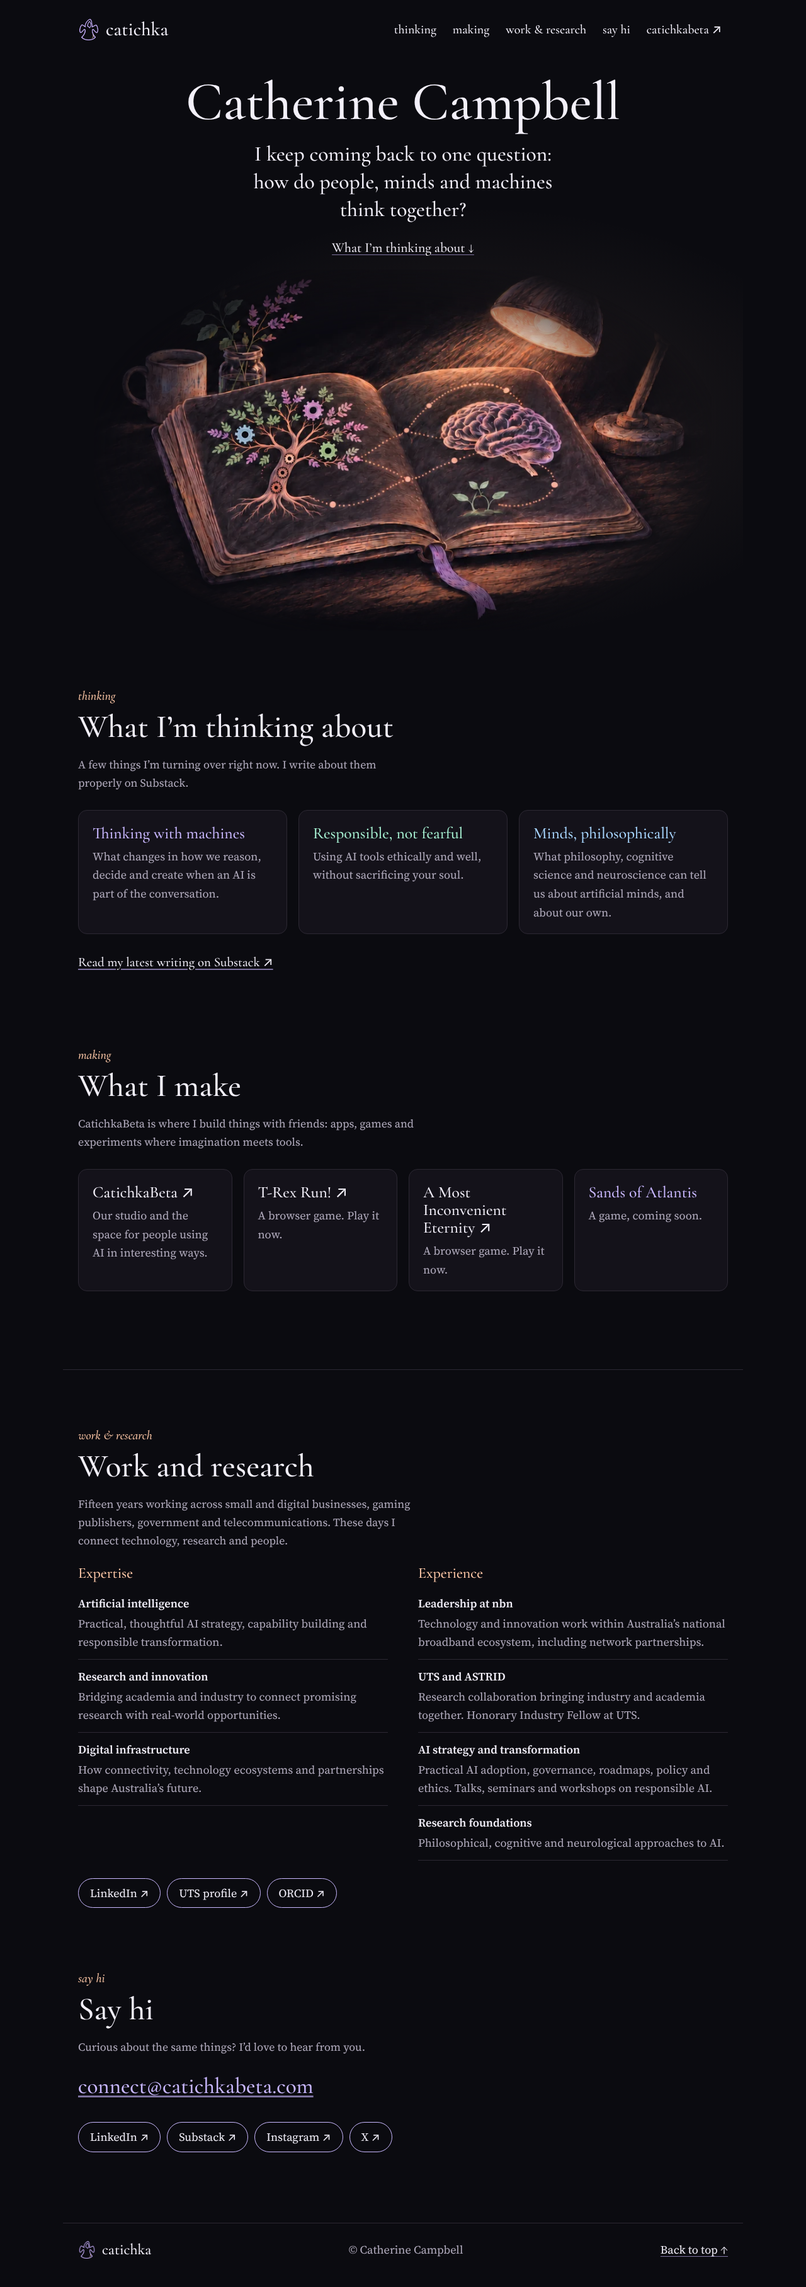
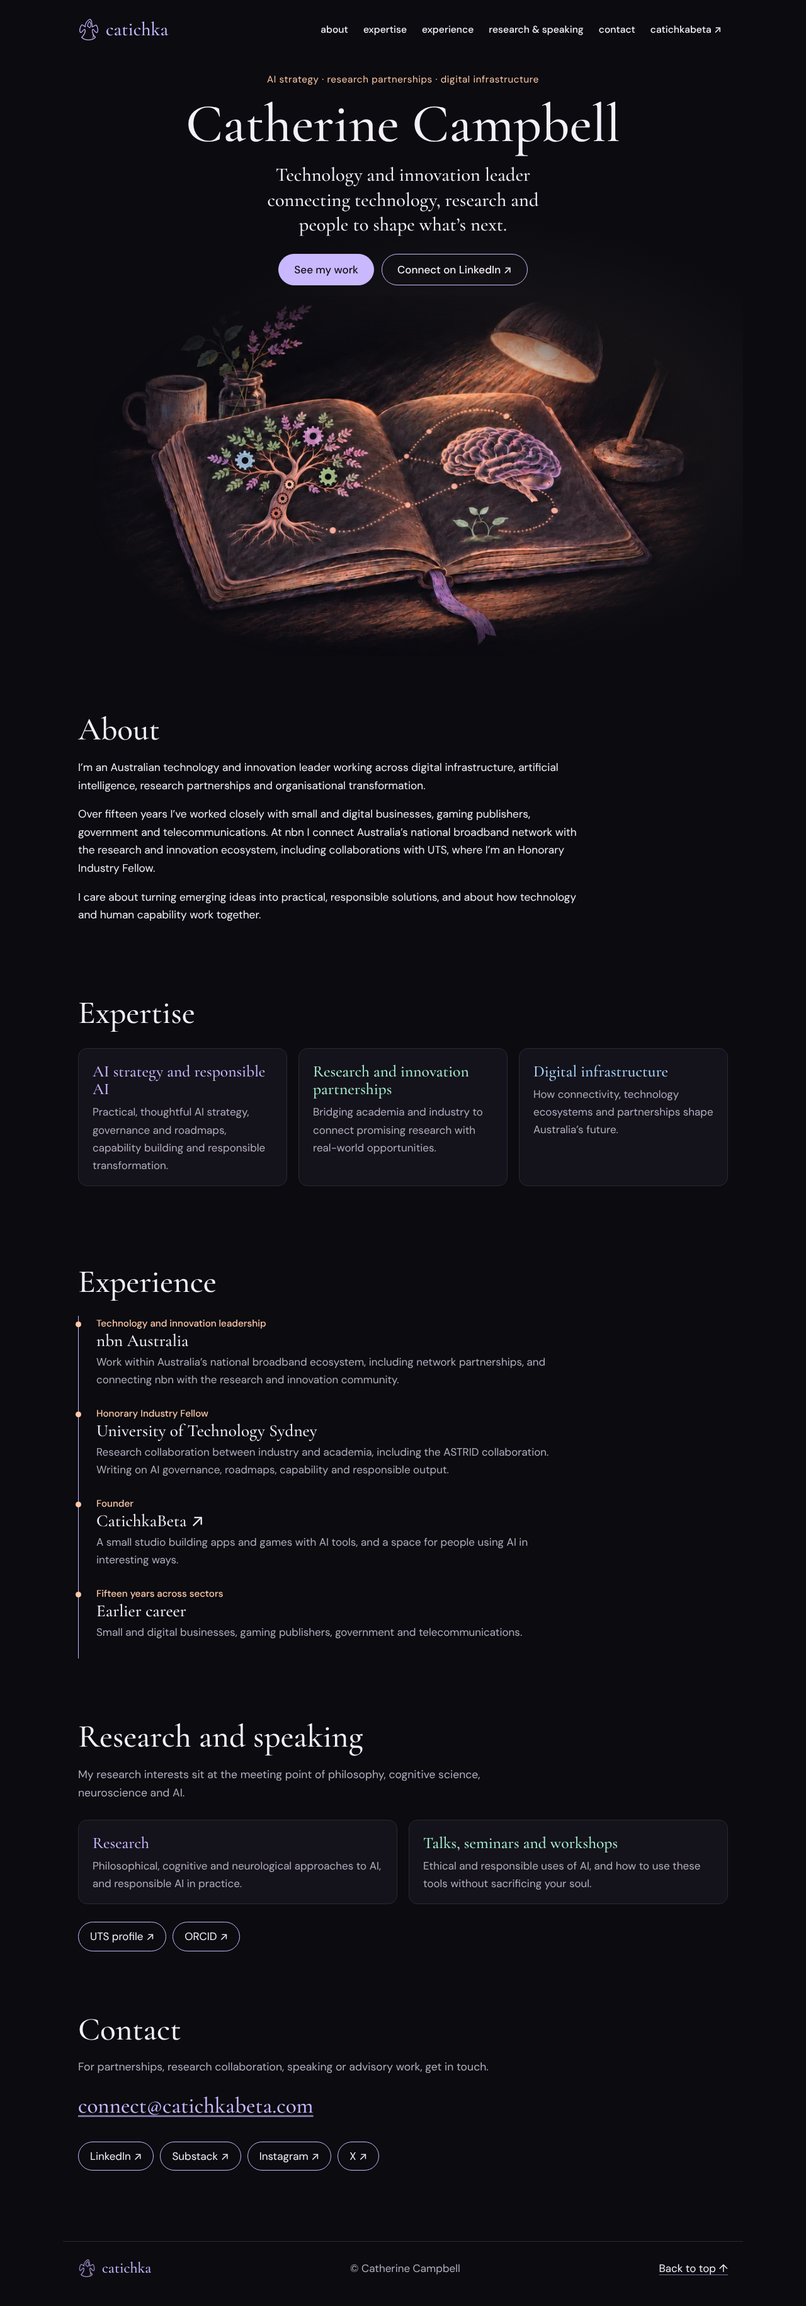
Refocus the site on Catherine's professional profile
Catherine wants a professional showcase, not a blog. Sections are now
about, expertise, experience (timeline), research and speaking, and
contact. Uses the approved fonts (Cormorant Garamond and DM Sans), adds
the approved wordmark, and updates the brief for ChatGPT.

Claude-Session: https://claude.ai/code/session_01EstHzd3ZrVaBXQQCWkzqig

diff --git a/src/site.ts b/src/site.ts
@@ -4,70 +4,70 @@
 export const site = {
   name: 'Catherine Campbell',
   short: 'catichka',
-  description: 'Catherine Campbell: how people, minds and machines think together. AI strategy, research and the things I make.',
+  description: 'Catherine Campbell: technology and innovation leader in AI strategy, research partnerships and digital infrastructure.',
 };
 
-// Nav order and labels from the approved hero (docs/art/batch-01/hero-style-approved.png).
+// Nav labels and order. Catherine, 10 Nov 2026: this is a professional site, not a blog.
 export const nav = [
-  { href: '/#thinking', label: 'thinking' },
-  { href: '/#making', label: 'making' },
-  { href: '/#work', label: 'work & research' },
-  { href: '/#hi', label: 'say hi' },
+  { href: '/#about', label: 'about' },
+  { href: '/#expertise', label: 'expertise' },
+  { href: '/#experience', label: 'experience' },
+  { href: '/#research', label: 'research & speaking' },
+  { href: '/#contact', label: 'contact' },
   { href: 'https://catichkabeta.com', label: 'catichkabeta', external: true },
 ];
 
+const linkedin = 'https://www.linkedin.com/in/catherinecampbell-/';
+
 export const hero = {
+  kicker: 'AI strategy · research partnerships · digital infrastructure',
   name: 'Catherine Campbell',
-  line: 'I keep coming back to one question: how do people, minds and machines think together?',
-  cta: { href: '#thinking', label: 'What I’m thinking about ↓' },
-};
-
-// Placeholder ideas: Cat to rewrite in her own words.
-export const thinking = {
-  intro: 'A few things I’m turning over right now. I write about them properly on Substack.',
-  ideas: [
-    { title: 'Thinking with machines', body: 'What changes in how we reason, decide and create when an AI is part of the conversation.' },
-    { title: 'Responsible, not fearful', body: 'Using AI tools ethically and well, without sacrificing your soul.' },
-    { title: 'Minds, philosophically', body: 'What philosophy, cognitive science and neuroscience can tell us about artificial minds, and about our own.' },
-  ],
-  substack: 'https://substack.com/@ca7ichka',
-};
-
-export const making = {
-  intro: 'CatichkaBeta is where I build things with friends: apps, games and experiments where imagination meets tools.',
-  projects: [
-    { title: 'CatichkaBeta', body: 'Our studio and the space for people using AI in interesting ways.', href: 'https://catichkabeta.com' },
-    { title: 'T-Rex Run!', body: 'A browser game. Play it now.', href: 'https://trexgame.catichkabeta.com' },
-    { title: 'A Most Inconvenient Eternity', body: 'A browser game. Play it now.', href: 'https://eternity.catichkabeta.com' },
-    { title: 'Sands of Atlantis', body: 'A game, coming soon.', href: null },
+  line: 'Technology and innovation leader connecting technology, research and people to shape what’s next.',
+  actions: [
+    { href: '#experience', label: 'See my work' },
+    { href: linkedin, label: 'Connect on LinkedIn ↗', ghost: true },
   ],
 };
 
-export const work = {
-  intro: 'Fifteen years working across small and digital businesses, gaming publishers, government and telecommunications. These days I connect technology, research and people.',
-  expertise: [
-    { title: 'Artificial intelligence', body: 'Practical, thoughtful AI strategy, capability building and responsible transformation.' },
-    { title: 'Research and innovation', body: 'Bridging academia and industry to connect promising research with real-world opportunities.' },
-    { title: 'Digital infrastructure', body: 'How connectivity, technology ecosystems and partnerships shape Australia’s future.' },
+export const about = {
+  paragraphs: [
+    'I’m an Australian technology and innovation leader working across digital infrastructure, artificial intelligence, research partnerships and organisational transformation.',
+    'Over fifteen years I’ve worked closely with small and digital businesses, gaming publishers, government and telecommunications. At nbn I connect Australia’s national broadband network with the research and innovation ecosystem, including collaborations with UTS, where I’m an Honorary Industry Fellow.',
+    'I care about turning emerging ideas into practical, responsible solutions, and about how technology and human capability work together.',
   ],
-  experience: [
-    { title: 'Leadership at nbn', body: 'Technology and innovation work within Australia’s national broadband ecosystem, including network partnerships.' },
-    { title: 'UTS and ASTRID', body: 'Research collaboration bringing industry and academia together. Honorary Industry Fellow at UTS.' },
-    { title: 'AI strategy and transformation', body: 'Practical AI adoption, governance, roadmaps, policy and ethics. Talks, seminars and workshops on responsible AI.' },
-    { title: 'Research foundations', body: 'Philosophical, cognitive and neurological approaches to AI.' },
+};
+
+export const expertise = [
+  { title: 'AI strategy and responsible AI', body: 'Practical, thoughtful AI strategy, governance and roadmaps, capability building and responsible transformation.' },
+  { title: 'Research and innovation partnerships', body: 'Bridging academia and industry to connect promising research with real-world opportunities.' },
+  { title: 'Digital infrastructure', body: 'How connectivity, technology ecosystems and partnerships shape Australia’s future.' },
+];
+
+// Draft: dates and job titles to come from Catherine's LinkedIn.
+export const experience = [
+  { org: 'nbn Australia', role: 'Technology and innovation leadership', body: 'Work within Australia’s national broadband ecosystem, including network partnerships, and connecting nbn with the research and innovation community.' },
+  { org: 'University of Technology Sydney', role: 'Honorary Industry Fellow', body: 'Research collaboration between industry and academia, including the ASTRID collaboration. Writing on AI governance, roadmaps, capability and responsible output.' },
+  { org: 'CatichkaBeta', role: 'Founder', body: 'A small studio building apps and games with AI tools, and a space for people using AI in interesting ways.', href: 'https://catichkabeta.com' },
+  { org: 'Earlier career', role: 'Fifteen years across sectors', body: 'Small and digital businesses, gaming publishers, government and telecommunications.' },
+];
+
+export const research = {
+  intro: 'My research interests sit at the meeting point of philosophy, cognitive science, neuroscience and AI.',
+  items: [
+    { title: 'Research', body: 'Philosophical, cognitive and neurological approaches to AI, and responsible AI in practice.' },
+    { title: 'Talks, seminars and workshops', body: 'Ethical and responsible uses of AI, and how to use these tools without sacrificing your soul.' },
   ],
-  profiles: [
-    { label: 'LinkedIn', href: 'https://www.linkedin.com/in/catherinecampbell-/' },
+  links: [
     { label: 'UTS profile', href: 'https://profiles.uts.edu.au/Catherine.Campbell/about' },
     { label: 'ORCID', href: 'https://orcid.org/0009-0009-6215-3743' },
   ],
 };
 
-export const hi = {
-  line: 'Curious about the same things? I’d love to hear from you.',
+export const contact = {
+  line: 'For partnerships, research collaboration, speaking or advisory work, get in touch.',
   email: 'connect@catichkabeta.com',
-  socials: [
-    { label: 'LinkedIn', href: 'https://www.linkedin.com/in/catherinecampbell-/' },
+  links: [
+    { label: 'LinkedIn', href: linkedin },
     { label: 'Substack', href: 'https://substack.com/@ca7ichka' },
     { label: 'Instagram', href: 'https://www.instagram.com/catichkasphilosophyforlife/' },
     { label: 'X', href: 'https://x.com/catichka' },
@@ -76,6 +76,7 @@ export const hi = {
 
 export const art = {
   mark: '/art/mark.png', // approved druid mark (batch 1), edges cleaned for web
+  portrait: null as string | null, // Catherine's photo, framed per ChatGPT's portrait treatment (batch 2)
   // Placeholder: cropped from the approved hero reference until ChatGPT's text-free hero (batch 2) arrives.
   hero: '/art/hero-placeholder.webp',
   heroAlt: 'An open notebook under a warm desk lamp. One page shows a tree with pastel cogs among its leaves, the other a brain, joined by dotted lines of thought.',

diff --git a/src/styles/global.css b/src/styles/global.css
@@ -12,16 +12,16 @@
   --pink: #ffb8d8;
   --lamp: rgb(255 201 168 / 0.10);
   --max: 1080px;
-  /* Placeholder fonts until the pairing is approved. */
+  /* Approved pairing (batch 1). */
   --display: 'Cormorant Garamond', Georgia, serif;
-  --body: 'Source Serif 4', Georgia, serif;
+  --body: 'DM Sans', system-ui, sans-serif;
   color-scheme: dark;
 }
 
 * { box-sizing: border-box; }
 html { -webkit-text-size-adjust: 100%; scroll-behavior: smooth; }
 @media (prefers-reduced-motion: reduce) { html { scroll-behavior: auto; } }
-body { margin: 0; background: var(--bg); color: var(--text); font: 400 18px/1.65 var(--body); }
+body { margin: 0; background: var(--bg); color: var(--text); font: 400 17px/1.65 var(--body); }
 img { max-width: 100%; height: auto; display: block; }
 a { color: var(--text); text-underline-offset: 4px; text-decoration-color: rgb(201 184 255 / 0.6); }
 a:hover { color: var(--peach); text-decoration-color: var(--peach); }
@@ -34,9 +34,9 @@ h1, h2, h3 { font-family: var(--display); font-weight: 500; line-height: 1.1; ma
 
 /* Header */
 .site-bar { display: flex; align-items: center; justify-content: space-between; gap: 8px 24px; flex-wrap: wrap; padding-top: 22px; padding-bottom: 10px; }
-.brand { display: inline-flex; align-items: center; gap: 10px; font-family: var(--display); font-size: 1.9rem; text-decoration: none; color: var(--text); }
+.brand { display: inline-flex; align-items: center; gap: 10px; font-family: var(--display); font-weight: 500; color: var(--lavender) !important; font-size: 1.9rem; text-decoration: none; color: var(--text); }
 .brand:hover { color: var(--text); }
-.nav { display: flex; flex-wrap: wrap; gap: 2px 6px; font-family: var(--display); font-size: 1.25rem; }
+.nav { display: flex; flex-wrap: wrap; gap: 2px 4px; font-weight: 500; font-size: 0.98rem; }
 .nav a { text-decoration: none; padding: 6px 10px; }
 .nav a:hover { color: var(--peach); }
 
@@ -44,8 +44,13 @@ h1, h2, h3 { font-family: var(--display); font-weight: 500; line-height: 1.1; ma
 .hero { text-align: center; padding-top: 32px; position: relative; }
 .hero::before { content: ''; position: absolute; inset: 20% 0 0; background: radial-gradient(ellipse at 62% 55%, var(--lamp), transparent 60%); pointer-events: none; }
 .hero h1 { font-size: clamp(2.8rem, 8vw, 5.4rem); font-weight: 500; }
-.hero-line { font-family: var(--display); font-size: clamp(1.4rem, 3.2vw, 2.1rem); line-height: 1.3; max-width: 30ch; margin: 14px auto 22px; }
-.hero-cta { font-family: var(--display); font-size: 1.35rem; text-decoration-thickness: 1px; }
+.hero .kicker { font-family: var(--body); font-style: normal; font-size: 0.95rem; letter-spacing: 0.04em; color: var(--peach); margin-bottom: 10px; }
+.hero-line { font-family: var(--display); font-size: clamp(1.35rem, 3vw, 1.9rem); line-height: 1.3; max-width: 34ch; margin: 14px auto 26px; }
+.actions { display: flex; gap: 12px; justify-content: center; flex-wrap: wrap; }
+.btn { display: inline-flex; align-items: center; min-height: 48px; padding: 10px 24px; border-radius: 999px; background: var(--lavender); color: var(--bg); font-weight: 500; text-decoration: none; border: 1px solid var(--lavender); }
+.btn:hover { color: var(--bg); background: var(--peach); border-color: var(--peach); }
+.btn.ghost { background: transparent; color: var(--text); }
+.btn.ghost:hover { color: var(--peach); background: transparent; }
 .hero-art { margin: 16px auto 0; width: min(100%, 980px); -webkit-mask-image: radial-gradient(ellipse 52% 54% at 50% 50%, #000 62%, transparent 100%); mask-image: radial-gradient(ellipse 52% 54% at 50% 50%, #000 62%, transparent 100%); }
 
 /* Sections */
@@ -61,22 +66,28 @@ h1, h2, h3 { font-family: var(--display); font-weight: 500; line-height: 1.1; ma
 .cards .card:nth-child(3n+1) h3 { color: var(--lavender); }
 .cards .card:nth-child(3n+2) h3 { color: var(--mint); }
 .cards .card:nth-child(3n+3) h3 { color: var(--blue); }
-.link { font-family: var(--display); font-size: 1.3rem; }
 
-/* Work and research: quieter, scannable */
-.work { border-top: 1px solid var(--border); margin-top: 88px; }
-.cols { display: grid; gap: 12px 48px; grid-template-columns: repeat(auto-fit, minmax(280px, 1fr)); margin-top: 24px; }
-.col-title { font-size: 1.5rem; color: var(--peach); margin-bottom: 8px; }
-.list { margin: 0; }
-.list > div { padding: 12px 0; border-bottom: 1px solid var(--border); }
-.list dt { font-weight: 600; }
-.list dd { margin: 2px 0 0; color: var(--muted); }
+/* About */
+.about-body { max-width: 68ch; margin-top: 18px; font-size: 1.08rem; }
+.about-body.has-portrait { max-width: none; display: grid; gap: 32px; grid-template-columns: minmax(180px, 280px) 1fr; align-items: start; }
+.portrait { border-radius: 16px; }
+@media (max-width: 640px) { .about-body.has-portrait { grid-template-columns: 1fr; } }
+.cards.two { grid-template-columns: repeat(auto-fit, minmax(300px, 1fr)); }
+
+/* Experience timeline */
+.timeline { list-style: none; padding: 0; margin: 26px 0 0; border-left: 1px solid var(--lavender); }
+.timeline li { position: relative; padding: 0 0 28px 28px; }
+.timeline li::before { content: ''; position: absolute; left: -5px; top: 9px; width: 9px; height: 9px; border-radius: 50%; background: var(--peach); }
+.timeline h3 { font-size: 1.7rem; }
+.timeline h3 a { text-decoration: none; }
+.timeline .role { margin: 0; color: var(--peach); font-weight: 500; font-size: 0.95rem; }
+.timeline p.muted { margin: 4px 0 0; max-width: 65ch; }
 .pills { list-style: none; padding: 0; margin: 28px 0 0; display: flex; flex-wrap: wrap; gap: 10px; }
 .pills a { display: inline-block; padding: 8px 18px; border: 1px solid var(--lavender); border-radius: 999px; text-decoration: none; }
 .pills a:hover { border-color: var(--peach); }
 
-/* Say hi */
-.hi { padding-bottom: 40px; }
+/* Contact */
+.contact { padding-bottom: 40px; }
 .email { font-family: var(--display); font-size: clamp(1.6rem, 4vw, 2.2rem); color: var(--lavender); }
 
 /* Footer */

diff --git a/chatgpt-art-brief.md b/chatgpt-art-brief.md
@@ -50,14 +50,32 @@ One scrolling page, top half personal and bottom half professional:
 **Hand-off (same as catichkabeta)**
 This site will have its own GitHub repo; I'll send you the link once it exists. Put each batch in its own folder under docs/art/ (e.g. docs/art/batch-01/) with a START-HERE.md that says what each file is and which slot it fills (mark, wordmark, fonts, hero, icons.thinking / icons.making / icons.work / icons.hi, portraitFrame, shareImage, favicon, notFound). Commit on a new branch and open a pull request into main. If GitHub won't let you push, just give me the files to download and I'll pass them to Claude.
 
-**Update after batch 1 (10 November 2026)**
-Thank you, batch 1 is lovely. Approved so far: the hero direction (`hero-style-approved.png`, centred serif intro over the notebook under the lamp) and the druid outline mark (`mark.png`). The book-and-spark mark is out. Still to come from batch 1: the wordmark and the font pairing.
+**Update after batch 1 (10 November 2026): read this first. It overrides anything above that disagrees.**
 
-Claude reviewed the files and has these notes. Please fold them into what's next:
-1. **Clean re-export of `mark.png`.** The "transparent" area has faint blue, pink and white speckles (partly transparent pixels around the figure). They don't show on near-black but would show on white, like a light-mode browser tab or a LinkedIn preview. Please re-export it with a truly clean transparent background: only the lavender outline and the peach fold, nothing else.
-2. **A bold small version of the mark.** At 16–32px the outline gets thin and fades. Please make `mark-small.png` with a thicker line and simplified detail for favicon and nav sizes, and use it for the favicon (item 8).
-3. **Phone layout for the hero.** The hero is wide, with the mug on the left and the lamp on the right. With the text-free hero in batch 2 (item 4), please also make a narrow mobile crop (`hero-mobile.png`, about 900×1400, with the book and lamp centred, leaving the top third clear for the heading). Or supply layers (book, lamp, mug, jar, background) as separate transparent PNGs so Claude can arrange them.
-4. **Name the fonts.** Please name the exact web fonts (ideally free on Google Fonts) for the headings and body text. The serif in the hero reference is the look we want to keep.
-5. **Text-free hero.** As noted in START-HERE.md, the batch 2 hero must have no baked-in text or nav. Claude builds all text and links as real web text.
+Batch 1 is approved: the hero direction (notebook under the lamp), the druid mark, the wordmark, and the fonts (Cormorant Garamond 500 for headings, DM Sans 400/500 for body and nav). Thank you!
 
-Next steps, in order: finish batch 1 (wordmark, fonts and items 1–2 above), then batch 2.
+**Direction change from Catherine: catichka.com is a professional site.** It tells people who I am professionally and showcases my professional life. It is NOT a blog or a "blog lite". So:
+- Drop "What I'm thinking about" and the Substack feed. Substack is just one link in the contact section.
+- "What I make" becomes one entry in my experience (founder of CatichkaBeta) plus the catichkabeta ↗ tab, not its own section.
+- The visual style stays (notebook by lamplight, pastels on near-black). It's the warm, human wrapper around a credible professional profile.
+
+**New page structure (Claude builds this)**
+1. **Hero:** my name, a one-line professional positioning (technology and innovation leader: AI strategy, research partnerships, digital infrastructure), buttons for "See my work" and "Connect on LinkedIn", and the notebook illustration.
+2. **About:** a short professional bio with my portrait.
+3. **Expertise:** AI strategy and responsible AI, research and innovation partnerships, digital infrastructure.
+4. **Experience:** a career timeline (nbn, UTS Honorary Industry Fellow, ASTRID collaboration, founder of CatichkaBeta, earlier roles).
+5. **Research and speaking:** UTS, ORCID, talks, seminars and workshops on ethical and responsible AI.
+6. **Contact:** email, LinkedIn, plus the other socials.
+Nav: about, expertise, experience, research & speaking, contact, catichkabeta ↗.
+
+**Changes to batch 2**
+4. Hero illustration: text-free, based on the approved notebook composition (no nav or words baked in). Also make a narrow phone version, `hero-mobile.png` (about 900×1400, book and lamp centred, top third clear for the heading), or supply layers.
+5. Section icons: About, Expertise, Experience, Research and speaking, Contact (five, not four). Square, transparent PNGs.
+6. Portrait treatment: now more important, because it goes in About. I'll supply the photo.
+7. Link preview card: unchanged.
+
+**Fixes to existing files**
+- `mark.png` and `wordmark.png` both have faint blue, pink and white speckles in the "transparent" area. They're invisible on near-black but show on white (light-mode browser tabs, LinkedIn previews). Please re-export both with genuinely clean transparency. (Claude has cleaned the mark for now. The site uses live Cormorant Garamond text for the wordmark, so the wordmark PNG is only needed for things like social images.)
+- Please make `mark-small.png`: a thicker-line, simplified mark for favicon and nav sizes (16–32px), and use it for the favicon.
+
+Please add to this section, or put notes in a new file, rather than replacing it, so Claude's notes don't get lost.

diff --git a/docs/art/batch-01/START-HERE.md b/docs/art/batch-01/START-HERE.md
@@ -8,10 +8,22 @@ Build all navigation, headings, copy and calls to action as editable webpage tex
 
 ## Review status
 
-Hero style approved. Personal druid mark approved by Catherine on 10 November 2026. The book-and-spark mark was rejected for looking religious. Wordmark and font pairing remain pending. User reviews and approves artwork; Claude builds the site.
+Hero style approved. Personal druid mark approved by Catherine on 10 November 2026. The book-and-spark mark was rejected for looking religious. Wordmark and font pairing approved by Catherine on 10 November 2026. Batch 01 approved. User reviews and approves artwork; Claude builds the site.
 
 Follow the page structure and palette in ../../../chatgpt-art-brief.md. Current approved centred composition supersedes the initial side-by-side hero suggestion.
 
 ## Approved personal mark
 
 `mark.png` fills slot `mark`, approved by Catherine on 10 November 2026. `mark-druid-review.png` is the identical retained review copy. Adapted from https://catichkabeta.com/art/druid-small.png using the built-in image-generation tool. Prompt direction was to preserve the existing faceless hooded figure, raised loose sleeves and curved robe hem, with a substantial lavender outline and a small peach fold accent, on a transparent square canvas. Review at actual navigation and favicon sizes before production. Use `mark.png` as the approved master for this batch.
+
+## Approved wordmark and fonts
+
+`wordmark.png` fills slot `wordmark`, approved on 10 November 2026. `wordmark-review.png` retains the identical review copy. Lowercase catichka in pale lavender, wide transparent PNG. Generated with the built-in image tool. Prompt requested a clean literary serif wordmark inspired by Cormorant Garamond Medium, exact lowercase spelling, no ornament, solid lavender, and genuine transparency. Generated lettering is a visual proposal and may differ from the actual font glyphs.
+
+Slot `fonts` is approved and specified here. Use Cormorant Garamond Medium (500) for headings and DM Sans Regular (400) for body text, with DM Sans Medium (500) for navigation and controls. Keep body text and navigation comfortably readable. The wordmark image is optional branding artwork; all navigation, headings and body copy remain editable HTML text.
+
+Font sources
+- https://fonts.google.com/specimen/Cormorant+Garamond
+- https://fonts.google.com/specimen/DM+Sans
+
+Batch 01 is approved. Next item is the separate text-free hero illustration in batch 02, based on the approved book composition and cog details. Check for updated Claude instructions before proceeding.
